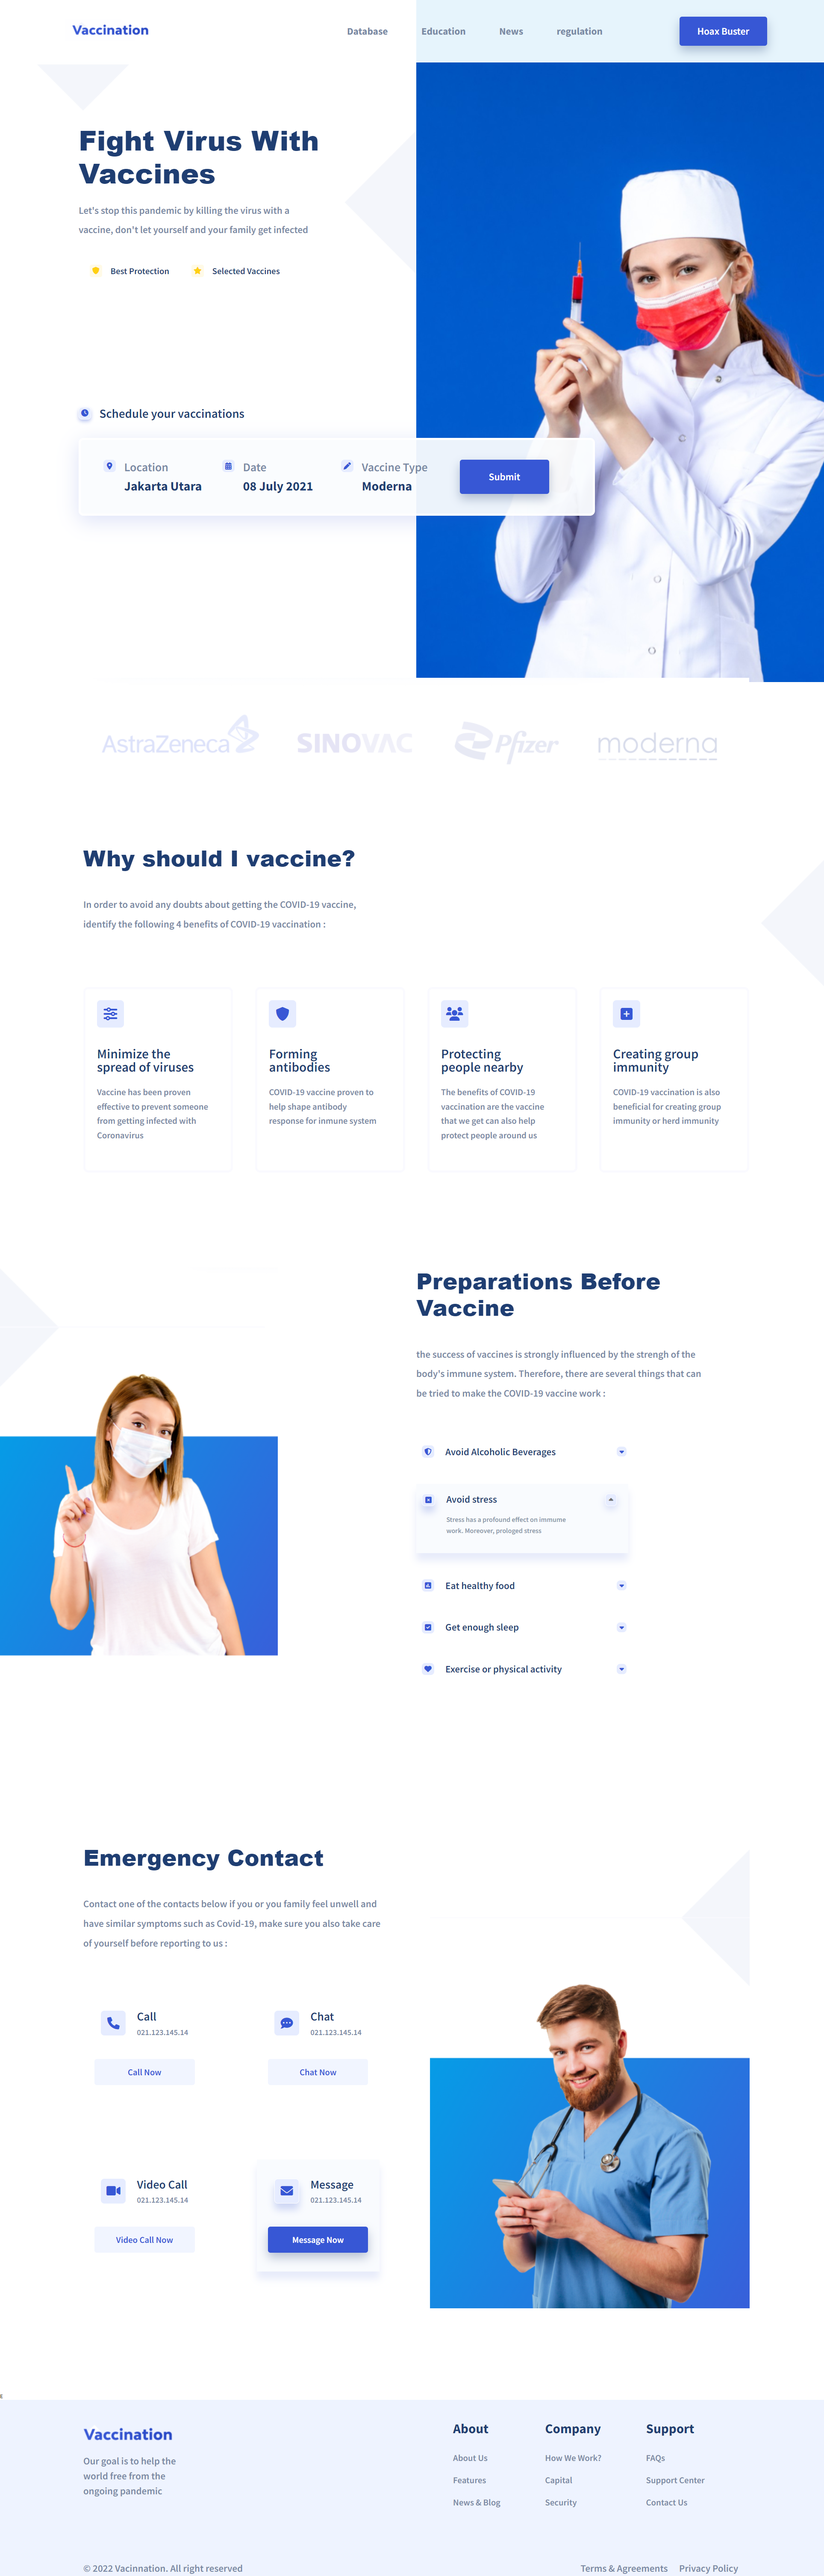
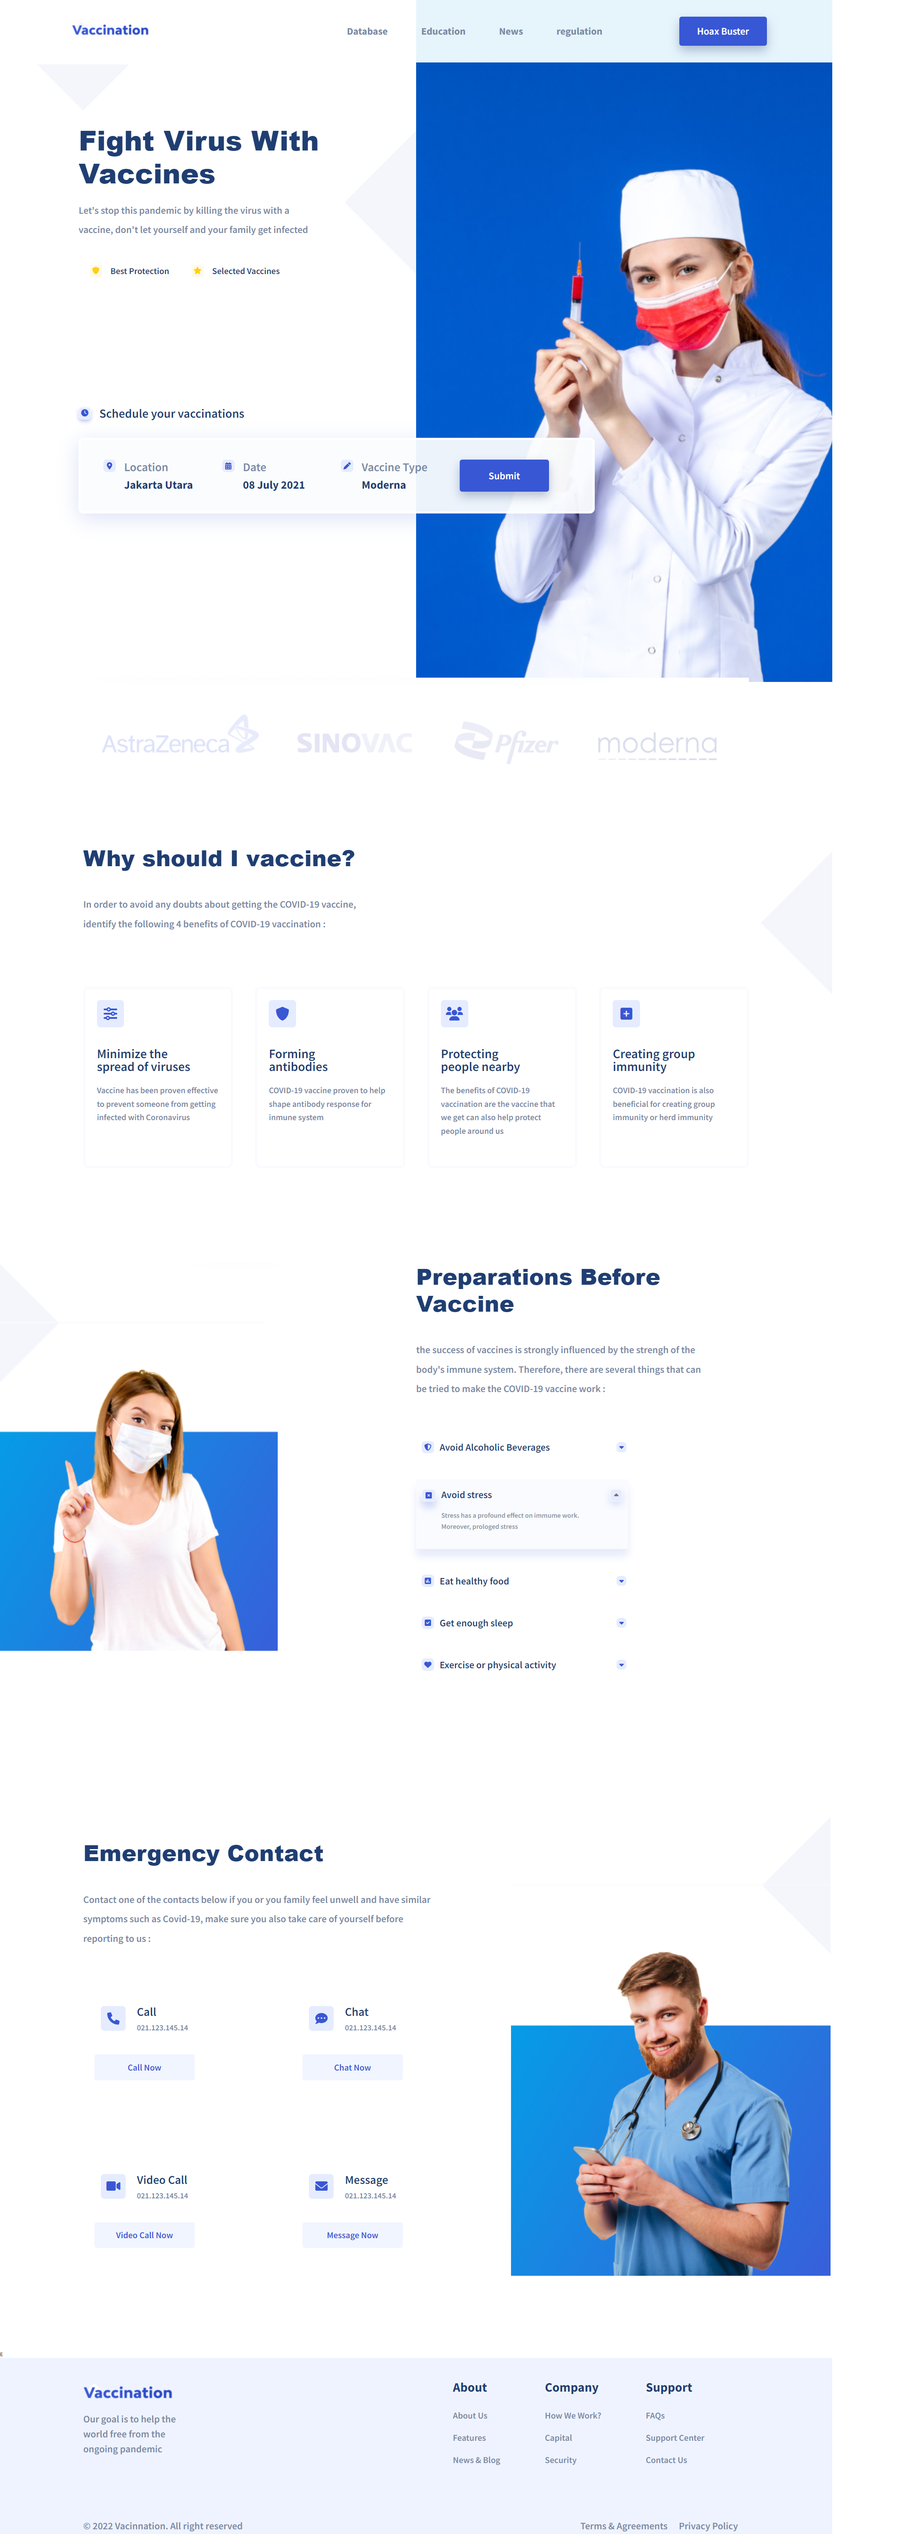
Ajustes Imagen

diff --git a/src/style.css b/src/style.css
@@ -577,7 +577,7 @@ section.prep__section {
 section.contact__container {
     padding: 5rem 0;
     display: flex;
-
+    position: relative;
 }
 
 .contact__content--wrapper {
@@ -656,11 +656,14 @@ section.contact__container {
 
 .contact__image--wrapper {
     width            : 50%;
-    height           : 100vh;
+    height           : 130vh;
     background       : url(../assets/img/contact.png);
     background-repeat: no-repeat;
     background-size  : auto;
     padding-left     : 40%;
+    position: absolute;
+    right: -17rem;
+    top: 0;
 }
 
 /*----------  END SUBSECTION | CONTACT   ----------*/
